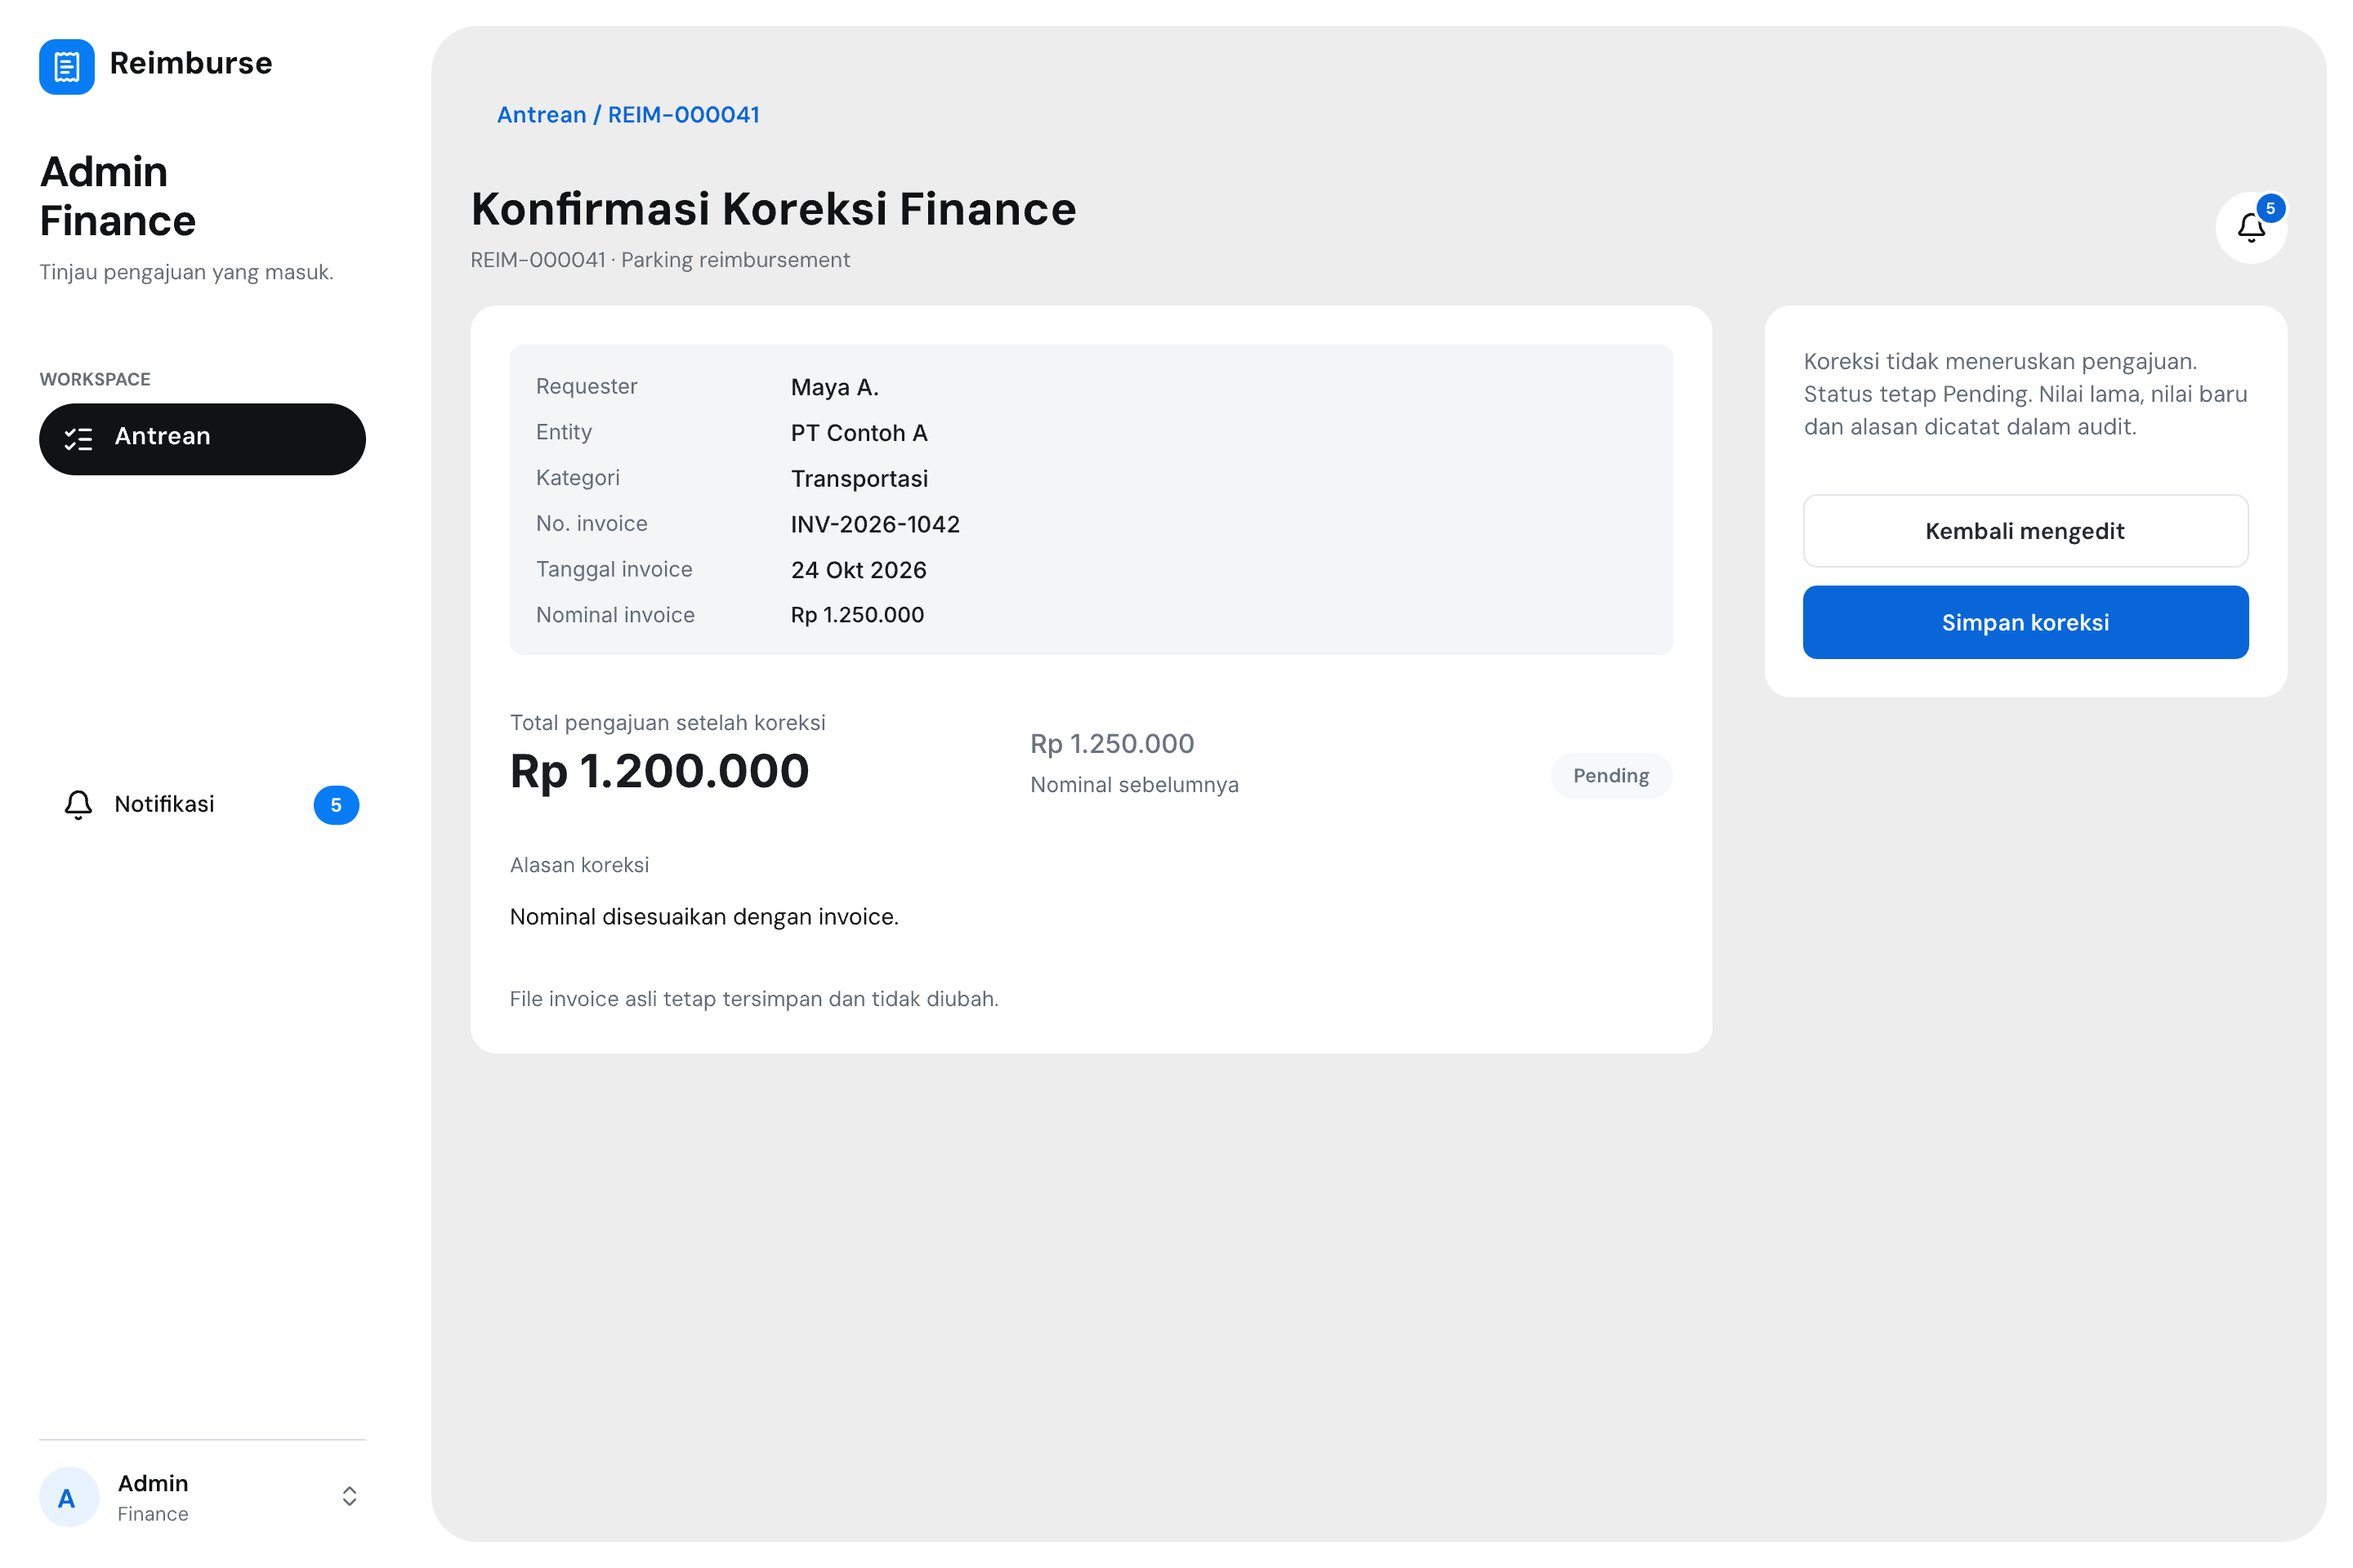
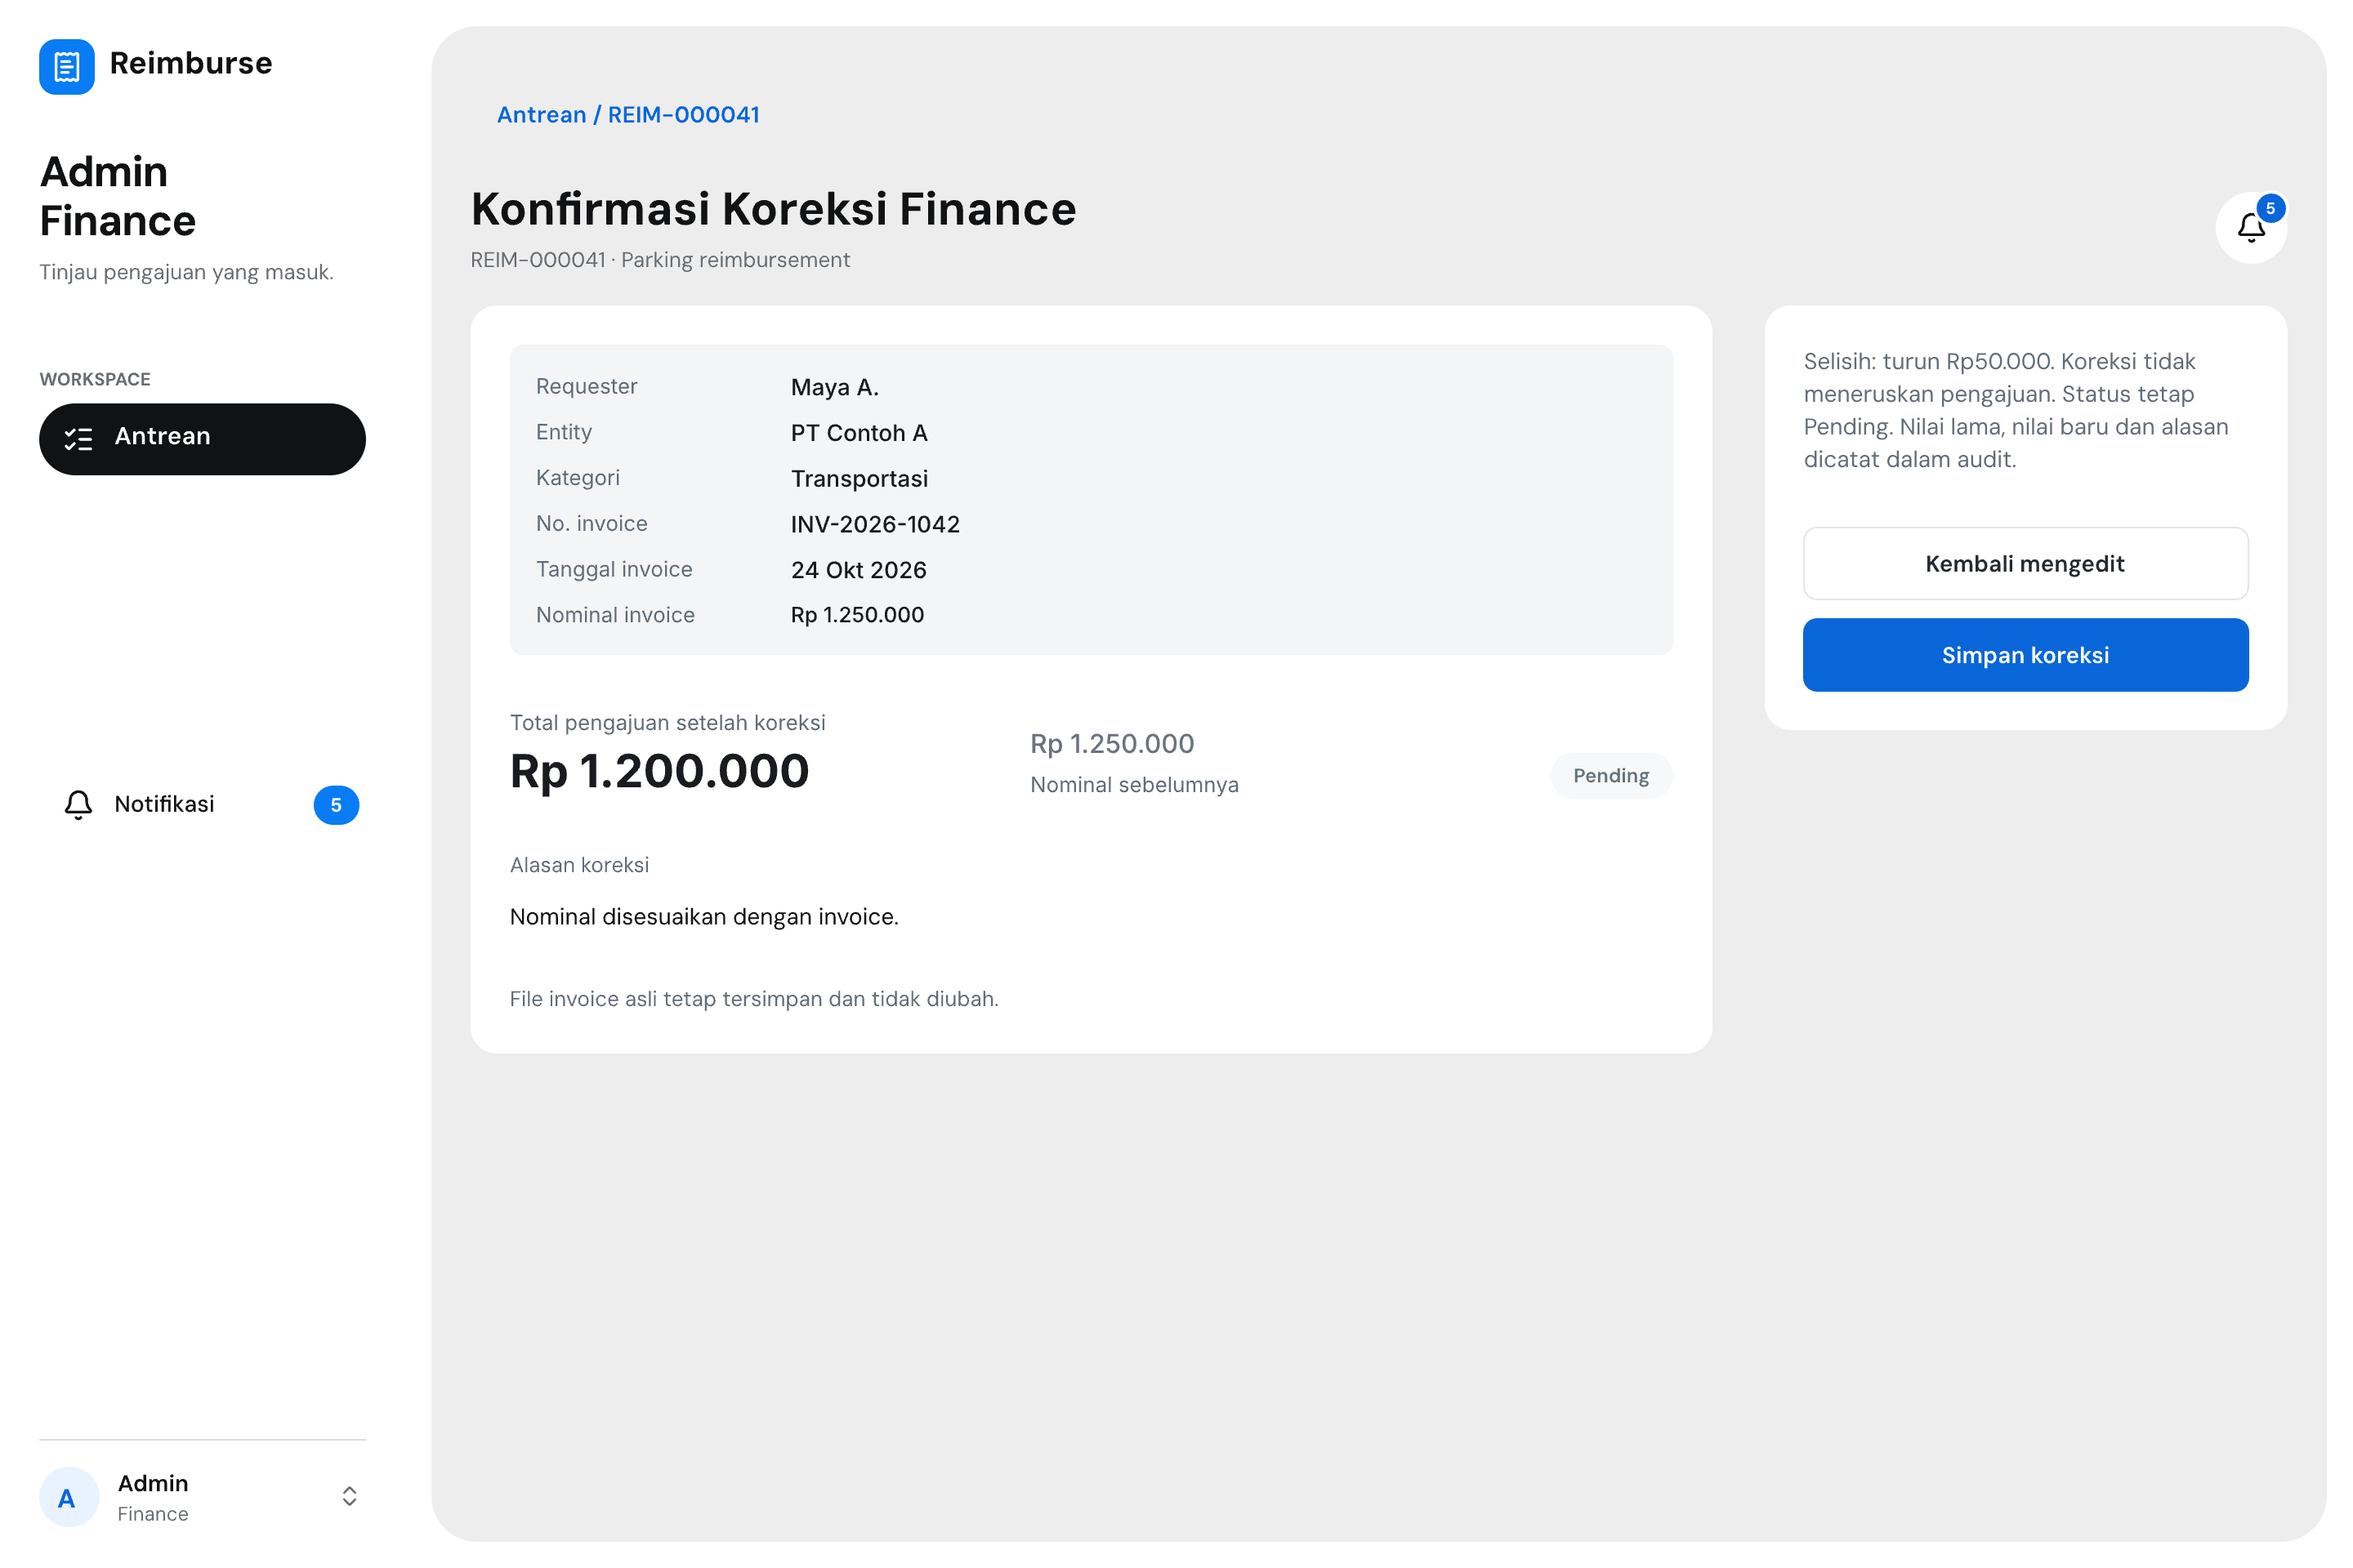
fix(design): clarify Finance review status and correction copy

Changed region(s): [[0.75, 0.2188, 0.9688, 0.4688]]

diff --git a/design/png/admin-finance-review/README.md b/design/png/admin-finance-review/README.md
@@ -2,6 +2,39 @@
 
 PG-06 is **Ready for Owner Review**, not Approved. PG-04 queue and PG-08/10 remain existing candidates, not polished again in this package. These are static specimens, not proof of working authorization, upload, calculations, submission, keyboard or screen-reader behavior.
 
+## Patch copy terverifikasi, issue #15
+
[1 lines of base64/hex data omitted]
+
+### Verdict sebelum patch, dari layer editable, bukan PNG
+
+1. **TERBUKTI**: helper persis `Status menjadi Finance Approved. Ini validasi Finance, bukan business approval atau Paid.` berjumlah **8**. Enam berada bersama badge `Pending`: `Kr0gH` → helper `NhIhB`, badge `PaKPd/U0zly`; `IPbJL` → `Iobl2`, `rmnVd/U0zly`; `pSkHH` → `ZoQMK`, `WSb8r/U0zly`; `Fdupv` → `da167`, `j8l7Lj/U0zly`; `El9ow` → `gYGst`, `OWLIP/U0zly`; `phpZn` → `hps4I`, `OTzOD/U0zly`. Dua lainnya: `AvxAT/ffKvn` dan `jTy7R/HQu0d`, frame konfirmasi tanpa badge status; keduanya tidak diubah. Badge Pending tidak diubah.
+2. **TERBUKTI** inkonsistensi istilah, **TIDAK TERBUKTI** bahwa hero memakai kata contoh. Hero/caption persis `Total pengajuan setelah koreksi`: `dRbB4` → `QAiKr`, `y41Z2/heZsY`; `FyrQ7` → `Gpjxo`, `D3blH/heZsY`; `d0R8t` → `tcK08`, `B7x8T/heZsY`. Calculation persis `Total contoh setelah koreksi · Rp1.200.000`: `a5jkj/JhPBo`, `CYzIN/wAeCz`, `Wym3I/N2lBe`, `k99ii/FwIFc`. Hanya Calculation yang diubah.
+3. **TERBUKTI** copy ambigu: `Nominal sebelumnya · tidak diubah` merujuk nilai lama `Rp1.250.000`, bukan nilai pengajuan baru `Rp1.200.000`. Frame/node label/nilai lama/nilai baru: `a5jkj` → `cIRko/g6qurL`, `cIRko/P9sHXg`, `cFuVs/P9sHXg`; `CYzIN` → `avlam/g6qurL`, `avlam/P9sHXg`, `W4AG7R/P9sHXg`; `Wym3I` → `B1mJL/g6qurL`, `B1mJL/P9sHXg`, `zh5KZ/P9sHXg`; `k99ii` → `FsD0w/g6qurL`, `FsD0w/P9sHXg`, `ENP8R/P9sHXg`. Label baru di semua pasangan persis `Nominal pengajuan setelah koreksi`. Nominal tidak diubah.
+4. **TERBUKTI** absen: seluruh teks `dRbB4`, `FyrQ7`, `d0R8t` dibaca; tidak ada Selisih atau nominal Rp50.000 dengan label lain. Nilai lama/baru ada, tetapi bukan baris selisih. Detail hasil koreksi memiliki `Selisih` / `Rp 50.000`: `IPbJL` → `jbOOe`/`XerKQ`; `Fdupv` → `s07No`/`gbq4f`; `phpZn` → `Pcf5b`/`mwps7`. Patch memakai layer konsekuensi konfirmasi yang sudah ada, bukan menambah baris/node.
+5. **TIDAK TERBUKTI**: label tombol destruktif persis `Tolak pengajuan`, bukan nominal: `NORQW/fiCgD/D3xtJ`, `b84ip/MTrUn/D3xtJ`. Tidak diubah. Nominal invoice terpisah: `NORQW/EQhgw` dan `b84ip/e2XnA`, keduanya `Rp 1.250.000`.
+
+### Perubahan, 17 layer teks / 13 frame
+
+| Frame | Node diubah | Teks sesudah patch |
+| --- | --- | --- |
+| Kr0gH, IPbJL, pSkHH, Fdupv, El9ow, phpZn | NhIhB, Iobl2, ZoQMK, da167, gYGst, hps4I (urutan berpasangan) | `Setelah diteruskan: Finance Approved (validasi Finance), bukan business approval atau Paid.` |
+| a5jkj, CYzIN, Wym3I, k99ii | JhPBo, wAeCz, N2lBe, FwIFc (urutan berpasangan) | `Total pengajuan setelah koreksi · Rp1.200.000` |
+| a5jkj, CYzIN, Wym3I, k99ii | cIRko/g6qurL, avlam/g6qurL, B1mJL/g6qurL, FsD0w/g6qurL (urutan berpasangan) | `Nominal sebelum koreksi` |
+| dRbB4 | jAMMq | `Selisih: turun Rp50.000. Koreksi tidak meneruskan pengajuan. Status tetap Pending. Nilai lama, nilai baru dan alasan dicatat dalam audit.` |
+| FyrQ7, d0R8t | zWkOX, wQYR2 (urutan berpasangan) | `Selisih: turun Rp50.000. Koreksi tidak meneruskan pengajuan. Status tetap Pending; file invoice asli tidak diubah.` |
+
+Ekspor patch ini **hanya 13 PNG individual 2×**: `Kr0gH.png`, `IPbJL.png`, `pSkHH.png`, `Fdupv.png`, `El9ow.png`, `phpZn.png`, `a5jkj.png`, `CYzIN.png`, `Wym3I.png`, `k99ii.png`, `dRbB4.png`, `FyrQ7.png`, `d0R8t.png`. **Galeri tidak diekspor** dan kini historis, bukan pratinjau patch ini. Daftar 30/34 PNG di bawah adalah catatan pass terdahulu, bukan ekspor patch ini.
+
+Checklist verifikasi patch:
+- Seluruh node ID dan struktur children dipertahankan; tidak ada node/source reusable baru atau perubahan variabel global. PG-02/PG-04 dan semua root selain dua root PG-06 tidak berubah.
+- Perubahan bermakna hanya 17 content/instance-content; editor saat save menormalisasi 106 teks PG-06 dari fontWeight tidak disetel menjadi default `normal`, tanpa perubahan tampilan. Tidak ada perubahan ukuran/layout/desain.
+- Bounds 13 frame: tidak ada clipping di luar delapan perpotongan scroll-content/viewport yang disengaja. Screenshot live representatif `a5jkj`, `dRbB4`, `FyrQ7`, dan section helper `XnJHj` diperiksa untuk alignment, wrapping, keterbacaan, dan layout; screenshot tidak dipakai untuk membuktikan temuan teks.
+- Tidak diverifikasi: runtime/API, persistensi audit, interaksi, keyboard/focus, screen reader, pengukuran contrast WCAG numerik, atau regresi visual menyeluruh seluruh screen. P1 lain tetap di luar scope. Approved baselines tidak dirender ulang. Status tetap Ready for Owner Review, bukan Approved.
+- Tidak menyentuh PR #17, tidak push/merge, tidak mengubah docs lain.
+
+## Catatan historis: spacing/alignment polish
+
[1 lines of base64/hex data omitted]
 
 ## PG-06 Ready for Owner Review
